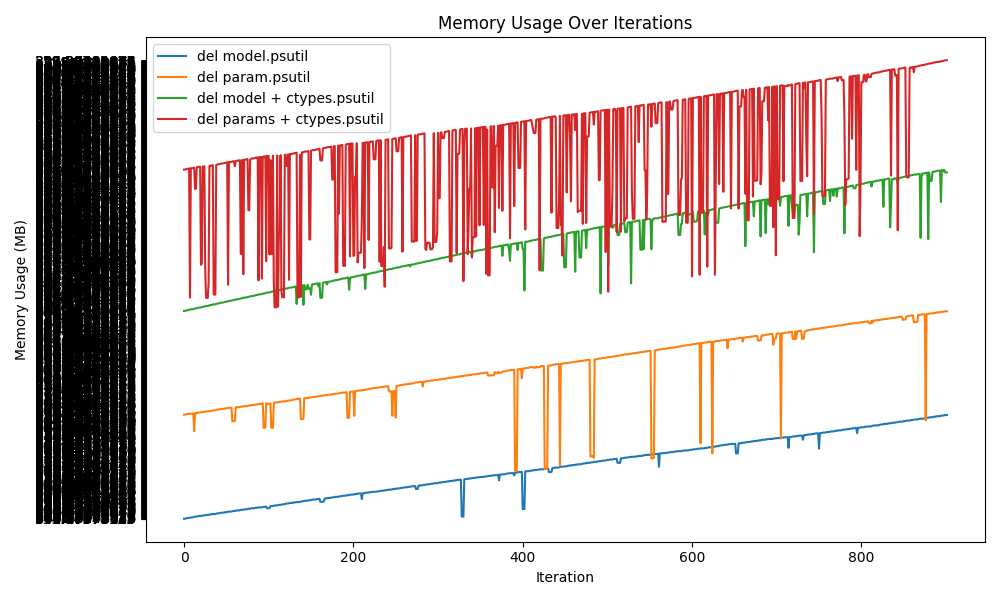
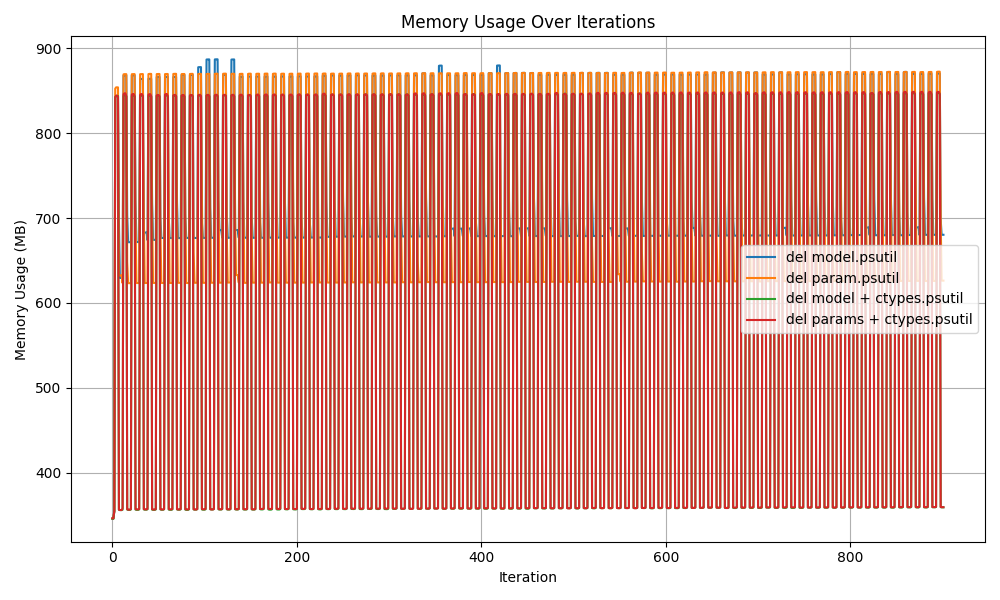
fix figure

diff --git a/plot_all.py b/plot_all.py
@@ -1,4 +1,7 @@
 import csv
+import os
+import sys
+from pathlib import Path
 
 import matplotlib.pyplot as plt
 
@@ -8,18 +11,22 @@ def load_csv(file: str):
     with open(file, "r") as f:
         reader = csv.DictReader(f)
         for row in reader:
-            results.append(row)
+            # 文字列を浮動小数点数に変換
+            results.append({k: float(v) for k, v in row.items()})
     return results
 
 
 def main():
-    results_1 = load_csv("csv/memory_usage_1.csv")
-    results_2 = load_csv("csv/memory_usage_2.csv")
-    results_3 = load_csv("csv/memory_usage_3.csv")
-    results_4 = load_csv("csv/memory_usage_4.csv")
+    # CSVファイルのパス
+    base_dir = Path(sys.argv[1])  # e.g. csv/2048m
+    results_1 = load_csv(base_dir / "memory_usage_1.csv")
+    results_2 = load_csv(base_dir / "memory_usage_2.csv")
+    results_3 = load_csv(base_dir / "memory_usage_3.csv")
+    results_4 = load_csv(base_dir / "memory_usage_4.csv")
 
     plt.figure(figsize=(10, 6))
-    for key in ["psutil"]:
+    metrics = ["psutil"]
+    for key in metrics:
         plt.plot([metric[key] for metric in results_1], label=f"del model.{key}")
         plt.plot([metric[key] for metric in results_2], label=f"del param.{key}")
         plt.plot(
@@ -34,8 +41,14 @@ def main():
     plt.ylabel("Memory Usage (MB)")
     plt.title("Memory Usage Over Iterations")
     plt.legend()
+    plt.grid(True)
     plt.tight_layout()
-    plt.savefig("figs/memory_usage_all.png")
+
+    # 出力ディレクトリの作成
+    os.makedirs("figs", exist_ok=True)
+    output = f"figs/{base_dir.name}/memory_usage_all.png"
+    plt.savefig(output)
+    os.chmod(output, 0o777)
     plt.close()
 
 

diff --git a/utils.py b/utils.py
@@ -61,9 +61,13 @@ def get_st_models(model_name: str):
     return model
 
 
-def plot_memory_usage(metrics: list[dict[str, float]], output: str):
+def plot_memory_usage(
+    metrics: list[dict[str, float]], output: str, keys: list[str] = None
+):
+    if keys is None:
+        keys = metrics[0].keys()
     plt.figure(figsize=(10, 6))
-    for key in metrics[0].keys():
+    for key in keys:
         plt.plot([metric[key] for metric in metrics], label=key)
     plt.xlabel("Iteration")
     plt.ylabel("Memory Usage (MB)")

diff --git a/1.py b/1.py
@@ -33,7 +33,7 @@ def main():
     metrics.append(get_memory_usage("final"))
 
     output = "figs/memory_usage_1.png"
-    plot_memory_usage(metrics, output)
+    plot_memory_usage(metrics, output, keys=["psutil"])
     os.chmod(output, 0o777)
 
     save_csv(metrics, "csv/memory_usage_1.csv")

diff --git a/2.py b/2.py
@@ -52,7 +52,7 @@ def main():
     metrics.append(get_memory_usage("final"))
 
     output = "figs/memory_usage_2.png"
-    plot_memory_usage(metrics, output)
+    plot_memory_usage(metrics, output, keys=["psutil"])
     os.chmod(output, 0o777)
 
     save_csv(metrics, "csv/memory_usage_2.csv")

diff --git a/3.py b/3.py
@@ -35,7 +35,7 @@ def main():
     metrics.append(get_memory_usage("final"))
 
     output = "figs/memory_usage_3.png"
-    plot_memory_usage(metrics, output)
+    plot_memory_usage(metrics, output, keys=["psutil"])
     os.chmod(output, 0o777)
 
     save_csv(metrics, "csv/memory_usage_3.csv")

diff --git a/4.py b/4.py
@@ -56,7 +56,7 @@ def main():
     metrics.append(get_memory_usage("final"))
 
     output = "figs/memory_usage_4.png"
-    plot_memory_usage(metrics, output)
+    plot_memory_usage(metrics, output, keys=["psutil"])
     os.chmod(output, 0o777)
 
     save_csv(metrics, "csv/memory_usage_4.csv")

diff --git a/README.md b/README.md
@@ -1,4 +1,4 @@
-# HuggingFace Model Release Memory
+# HuggingFace Model Memory Cleanup Experiment
 
 HuggingFaceのモデルをメモリから解放する方法の調査。
 
@@ -8,16 +8,20 @@ docker build -t memory-profiler .
 
 ## 1. `del model; gc.collect();`で削除
 
-![1](figs/memory_usage_1.png)
+![1](figs/2048m/memory_usage_1.png)
 
 ## 2. モデルのパラメータを手動で削除 + `del model; gc.collect();`
 
-![2](figs/memory_usage_2.png)
+![2](figs/2048m/memory_usage_2.png)
 
 ## 3. `del model; gc.collect();` + `ctypes.CDLL("libc.so.6")`で削除
 
-![3](figs/memory_usage_3.png)
+![3](figs/2048m/memory_usage_3.png)
 
 ## 4. モデルのパラメータを手動で削除 + `del model; gc.collect();` + `ctypes.CDLL("libc.so.6")`で削除
 
-![4](figs/memory_usage_4.png)
+![4](figs/2048m/memory_usage_4.png)
+
+## All
+
+![all](figs/2048m/memory_usage_all.png)
